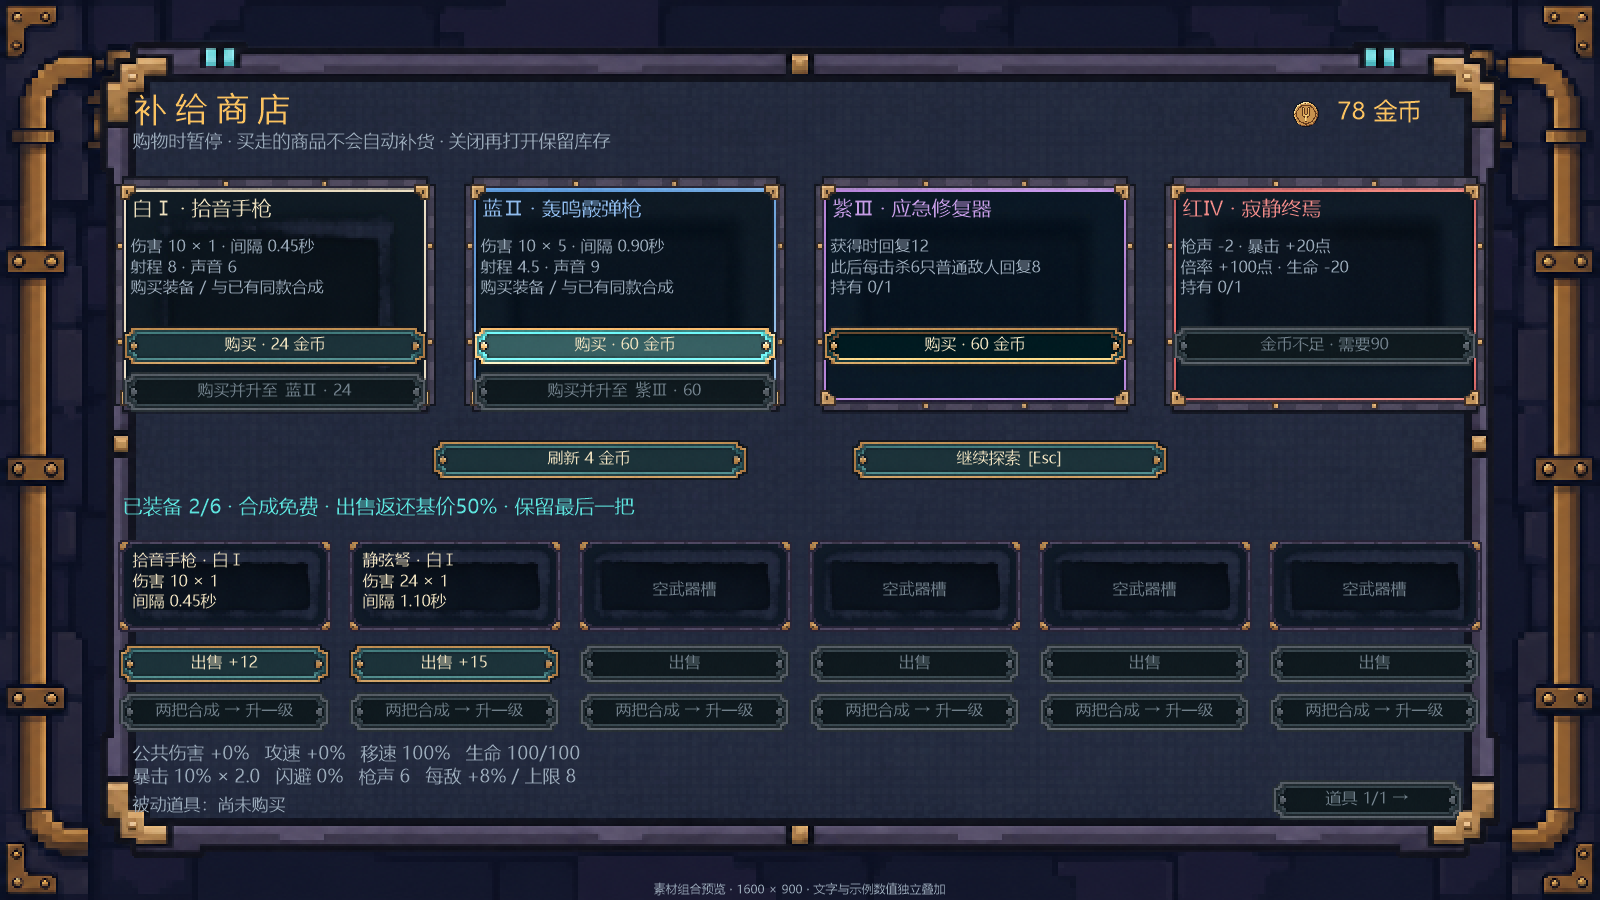
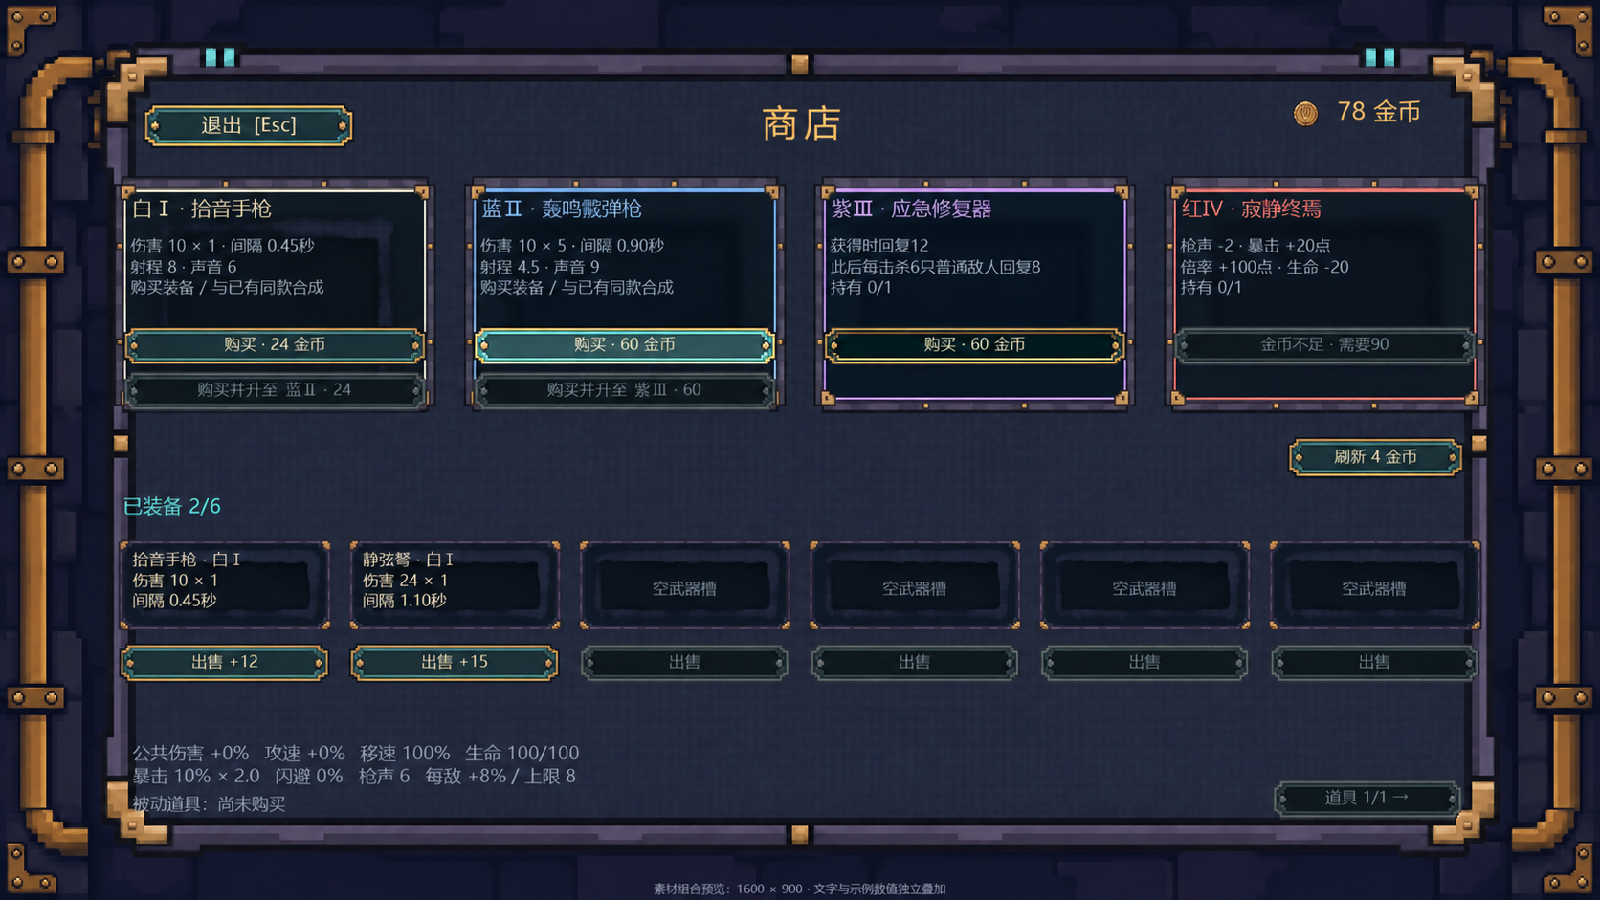
art: simplify shop preview and reposition header controls

diff --git a/美术/商店界面素材-20261114/素材清单与导入建议.md b/美术/商店界面素材-20261114/素材清单与导入建议.md
@@ -22,11 +22,11 @@
 | `按钮/shop_button_pressed.png` | 320×44 | 同一按钮的按下状态，深色凹面与下缘高光 |
 | `按钮/shop_button_disabled.png` | 320×44 | 余额不足、已售出、不能合成等情况下的禁用底图 |
 | `图标/shop_gold_coin.png` | 32×32 | 商店余额、价格旁的独立音叉金币图标 |
-| `预览/shop_composite_preview.png` | 1600×900 | 组合检查图；使用上述成品实际排版，文字与示例数值仅叠加在预览中 |
+| `预览/shop_composite_preview.png` | 1600×900 | 组合检查图；以独立素材的组合图为底图，按用户标注修订文字与按钮位置 |
 
 背景与组合预览不透明；其余11张有真实Alpha透明外缘，无棋盘格底色。保留生成素材的半透明边缘。除32×32金币外，成品经半尺寸逻辑网格采样并按2倍最近邻导出，保持2×2像素块；金币使用原生32×32采样。按钮四状态使用同一源图裁切区域 `(36,214,2101,296)`，统一最终画布和中心位置。
 
-文字、价格、货物图标与操作按钮没有烘焙进商品卡和主面板。卡底可以单独摆放或替换品质；按钮可单独响应交互。`源图/` 保存12张选用原图；`生成提示词.txt` 记录各项提示词和主面板最终修订。源图用于后续修改，不作为游戏导入版本。
+文字、价格、货物图标与操作按钮没有烘焙进商品卡和主面板。卡底可以单独摆放或替换品质；按钮可单独响应交互。`源图/` 保存12张选用原图；`生成提示词.txt` 记录各项提示词、主面板最终修订与组合预览布局修订。源图用于后续修改，不作为游戏导入版本。
 
 ## 后续Unity导入建议
 
@@ -61,12 +61,14 @@
 
 背景与金币使用Simple；金币勾选Preserve Aspect并以32×32显示。按钮Button Transition建议Sprite Swap，Normal使用普通底图，Highlighted使用hover，Pressed使用pressed，Disabled使用disabled，Selected可复用hover；Image Color保持白色，避免再叠加Color Tint导致高亮和禁用状态重复变色。
 
-组合预览在 `(80,18)` 放置原生1440×864主面板，四张商品卡的左上角依次为 `(108,170)`、`(458,170)`、`(808,170)`、`(1158,170)`。现有代码布局需在将来接入时为主面板边框留白，不应把整张预览当作运行时界面导入。
+当前组合预览采用用户确认后的布局：标题“商店”在上部居中，“退出 [Esc]”在左上角，刷新按钮在四格货架下方右侧。已装备标题仅显示数量；顶部购物说明、装备说明尾部和底部整排“两把合成 → 升一级”提示按钮已移除。商品卡内的购买升级按钮、六个武器槽及出售按钮保留。布局修订记录见 `Docs/025-商店预览布局精简与按钮调整.md`。
+
+现有代码布局需在将来接入时为主面板边框留白，不应把整张预览当作运行时界面导入。标题、退出和刷新均应继续作为独立UI元素摆放。
 
 ## 验证与已知问题
 
 - 已检查12张成品的实际尺寸、PNG可读性、11张独立元素的透明像素、背景不透明性、2×2采样网格与按钮状态统一画布。
-- 已用真实成品排版并查看1600×900预览，检查四品质、四按钮状态、六武器槽、动态文字空间与边框留白。
+- 已查看1600×900初版与布局修订预览，检查四品质、六武器槽、动态文字空间、边框留白及用户标注的删除与移动位置。
 - 主面板使用最后选定的完整织纹背板，避免初稿中的局部透景区域影响文字阅读。
 - 未接入Unity，因此最终锚点、Sprite Swap、九宫格边距以及其他宽高比的适配，需在后续界面接入时验收。预览中的数值和状态是排版示例。
 

diff --git a/Docs/025-商店预览布局精简与按钮调整.md b/Docs/025-商店预览布局精简与按钮调整.md
@@ -1,0 +1,34 @@
+# 025-商店预览布局精简与按钮调整
+
+## 调整内容
+
+按用户标注修改商店组合预览：
+
+- 删除顶部“购物时暂停 · 买走的商品不会自动补货 · 关闭再打开保留库存”。
+- 装备标题只保留“已装备 2/6”，删除其后的合成、出售返还和保留武器说明。
+- 移除红框圈出的整排“两把合成 → 升一级”提示按钮；商品卡内未圈出的购买升级按钮和六个出售按钮保留。
+- 刷新按钮缩窄并移到四格货架下方右侧，对应绿色标记区域。
+- 原继续探索按钮移到左上角，改为“退出 [Esc]”；指向退出商店。
+- 标题改为“商店”，放在上部居中位置。
+
+## 相关文件
+
+- `美术/商店界面素材-20261114/预览/shop_composite_preview.png`：修订后的1600×900预览。
+- 同目录上级 `素材清单与导入建议.md`：同步当前布局说明。
+- 同目录上级 `生成提示词.txt`：记录内置image_gen的布局编辑提示词。
+
+## 编辑器配置
+
+本轮只修订美术预览与说明，12张独立背景、面板、按钮和金币图标继续复用。后续Unity接入仍按素材清单中的Sprite、Point、Sliced和Sprite Swap设置；标题和操作按钮分别摆放。
+
+## 验证方法
+
+确认修订PNG可解码、分辨率为1600×900且不透明；查看成品，核对红框区域已清理、刷新在右侧、退出在左上角及标题居中，保留四格商品、六武器槽、出售按钮与底部属性区域。
+
+未修改Unity场景、Prefab或现有游戏逻辑，未执行导入；本轮无需游戏测试或EXE构建。
+
+## 已知问题
+
+布局尚未接入真实游戏，按钮位置与点击区域需在后续界面接入时验收；预览文字和数值仅用于排版检查。
+
+![调整后的商店预览](../美术/商店界面素材-20261114/预览/shop_composite_preview.png)
